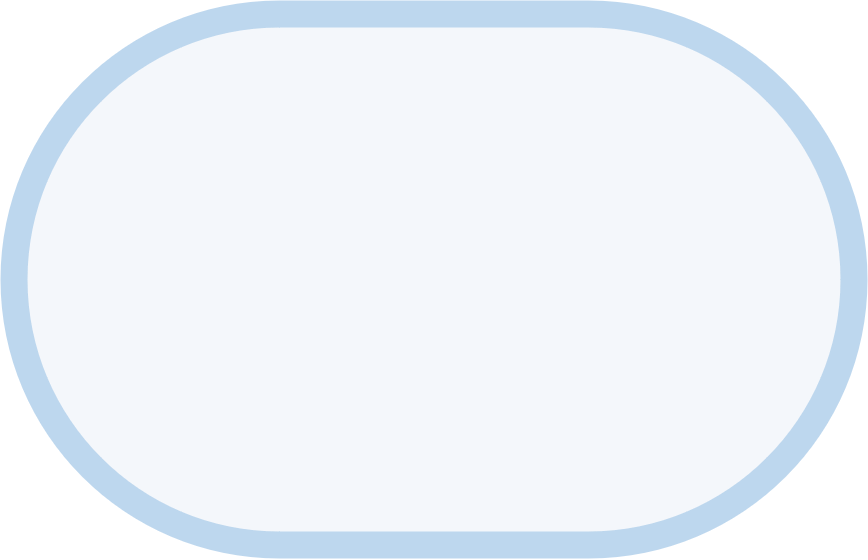
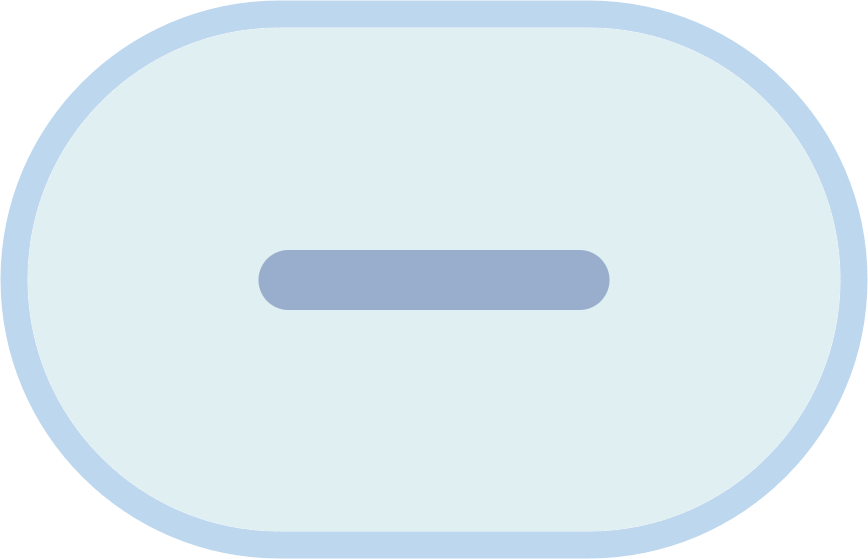
Add files via upload

Changed region(s): [[0.28, 0.4258, 0.7154, 0.5778], [0.3111, 0.9732, 0.6843, 1.0]]

diff --git a/pokomikuno/ui.js b/pokomikuno/ui.js
@@ -83,18 +83,45 @@ function uiRender() {
     }
 }
 
+let modeChenge = 0;
+let modeChangeX = 0;
+let modeChangeA = 0;
+
 function modeChangeButton() {
-    const i = (touchMode == 'move') ? 'angle' : 'move';
-    const n = (touchMode == 'move') ? 1 : -1;
     const l = 300;
-    imgC('assets/images/touchMode.png', l, 450, 500, 300)
-    imgC(`assets/images/${i}No.png`, l - 30 * n, 450 - 20 * n, 180, 180);
-    imgC(`assets/images/${touchMode}.png`, l + 30 * n, 450 + 20 * n, 180, 180);
-    if (touchUp && checkClick(l, 450, 500, 300) || keyJustPress('c')) {
-        touchMode = (touchMode == 'move') ? 'angle' : 'move';
-        sound("assets/sounds/changeMode.mp3", 'start');
+    imgC('assets/images/touchMode.png', l, 450, 500, 300);
+    if (modeChenge <= 0) {
+        if (touchMode == 'move') {
+            imgC(`assets/images/move.png`, l - 100, 450, 250, 250);
+        }
+        else {
+            imgC(`assets/images/angle.png`, l + 100, 450, 250, 250);
+        }
+        if (touchUp && checkClick(l, 450, 500, 300) || keyJustPress('c')) {
+            touchMode = (touchMode == 'move') ? 'angle' : 'move';
+            modeChenge = 20;
+            modeChangeX = l;
+            modeChangeA = 0;
+            sound("assets/sounds/changeMode.mp3", 'start');
+        }
+    }
+    else {
+        if (touchMode == 'move') {
+            imgCR(`assets/images/move.png`, modeChangeX + 100, 450, 250, 250, modeChangeA);
+            imgCR(`assets/images/angle.png`, modeChangeX + 100, 450, 250, 250, modeChangeA, modeChenge / 20);
+            modeChangeX += (l - 200 - modeChangeX) * 0.2;
+            modeChangeA += (-360 - modeChangeA) * 0.2;
+        }
+        else {
+            imgCR(`assets/images/angle.png`, modeChangeX - 100, 450, 250, 250, modeChangeA);
+            imgCR(`assets/images/move.png`, modeChangeX - 100, 450, 250, 250, modeChangeA, modeChenge / 20);
+            modeChangeX += (l + 200 - modeChangeX) * 0.2;
+            modeChangeA += (360 - modeChangeA) * 0.2;
+        }
+        modeChenge--;
     }
 }
+
 
 function moneyBag() {
     imgC('assets/images/moneyBag.png', csX(-850), csY(500), 150, 200);
@@ -125,8 +152,8 @@ const modeList = [
     { img: 'ポコ', backPack: [1, 0, 0, 0, 0], text: 'ポコ +1個', date: [0, 0, 0, 0] },
     { img: '90度ポコ', backPack: [1, 0, 0, 0, 0], text: '開始時のお金 -10', date: [-10, 0, 0, 0] },
     { img: 'イノシシ', backPack: [1, 0, 0, 0, 0], text: 'ミクノの移動間隔 -1秒', date: [-10, -1, 0, 0] },
-    { img: 'ボム', backPack: [1, 0, 0, 0, 0], text: 'ミクノの攻撃力 +5', date: [-10, -1, 5, 0] },
-    { img: 'ブーメラン', backPack: [1, 0, 0, 0, 0], text: 'ポコのチャージ時間 +2秒', date: [-10, -1, 5, 2] },
+    { img: 'ボム', backPack: [1, 0, 0, 0, 0], text: 'ミクノの攻撃力 +1', date: [-10, -1, 1, 0] },
+    { img: 'ブーメラン', backPack: [1, 0, 0, 0, 0], text: 'ポコのチャージ時間 +2秒', date: [-10, -1, 1, 2] },
 ]
 
 let sin;

diff --git a/pokomikuno/any.js b/pokomikuno/any.js
@@ -76,34 +76,36 @@ function paddleStep() {
     const s = p[0].size + pokoSize;
     //ゲーム中の処理
     if (stage !== 'title') {
-        //移動モード
-        if (touchMode == 'move') {
-            paddleX += (touchX - paddleX) * paddleSpeed;
-        }
-        //角度変更モード
-        else {
-            const a = getAngle(paddleX, paddleY - s / 2, touchX, touchY);
+        if (!checkClick(300, 450, 500, 300)) {
+            //移動モード
+            if (touchMode == 'move') {
+                paddleX += (touchX - paddleX) * paddleSpeed;
+            }
+            //角度変更モード
+            else {
+                const a = getAngle(paddleX, paddleY - s / 2, touchX, touchY);
+                const n = (chargePoko.length == 0) ? 0 : chargePoko[0].Num;
+                if (n == 2) {
+                    let diff = a;
+                    while (diff > 180) diff -= 360;
+                    while (diff < -180) diff += 360;
+                    angle = diff;
+                }
+                else {
+                    let diff = a - angle;
+                    while (diff > 180) diff -= 360;
+                    while (diff < -180) diff += 360;
+                    angle += (diff) * arrowSpeed;
+                }
+            }
             const n = (chargePoko.length == 0) ? 0 : chargePoko[0].Num;
             if (n == 2) {
-                let diff = a;
-                while (diff > 180) diff -= 360;
-                while (diff < -180) diff += 360;
-                angle = diff;
+                angle = Math.floor(angle / 45) * 45;
             }
-            else {
-                let diff = a - angle;
-                while (diff > 180) diff -= 360;
-                while (diff < -180) diff += 360;
-                angle += (diff) * arrowSpeed;
+            //ポコを発射（長押しなら連射）
+            if ((touchUp || (touchDown && clickTime >= 80))) {
+                shot();
             }
-        }
-        const n = (chargePoko.length == 0) ? 0 : chargePoko[0].Num;
-        if (n == 2) {
-            angle = Math.floor(angle / 45) * 45;
-        }
-        //ポコを発射（長押しなら連射）
-        if ((touchUp || (touchDown && clickTime >= 80)) && !checkClick(300, 450, 500, 300)) {
-            shot();
         }
     }
     //タイトル画面の処理

diff --git a/pokomikuno/library/image.js b/pokomikuno/library/image.js
@@ -80,7 +80,7 @@ function imgR(img, x, y, w, h, r) {
 }
 
 // 中心を原点として回転できる画像を描画
-function imgCR(img, x, y, w, h, r) {
+function imgCR(img, x, y, w, h, r, alpha = 1) {
     // X座標とY座標を数値に変換
     x = Number(x);
     y = Number(y);
@@ -98,6 +98,7 @@ function imgCR(img, x, y, w, h, r) {
     ctx.save();
     ctx.translate(x, y);
     ctx.rotate(r * Math.PI / 180);
+    ctx.globalAlpha = alpha;  // ★ 透明度 (0.0〜1.0)
     ctx.drawImage(images[img], a, b, w, h);
     ctx.restore();
 }
